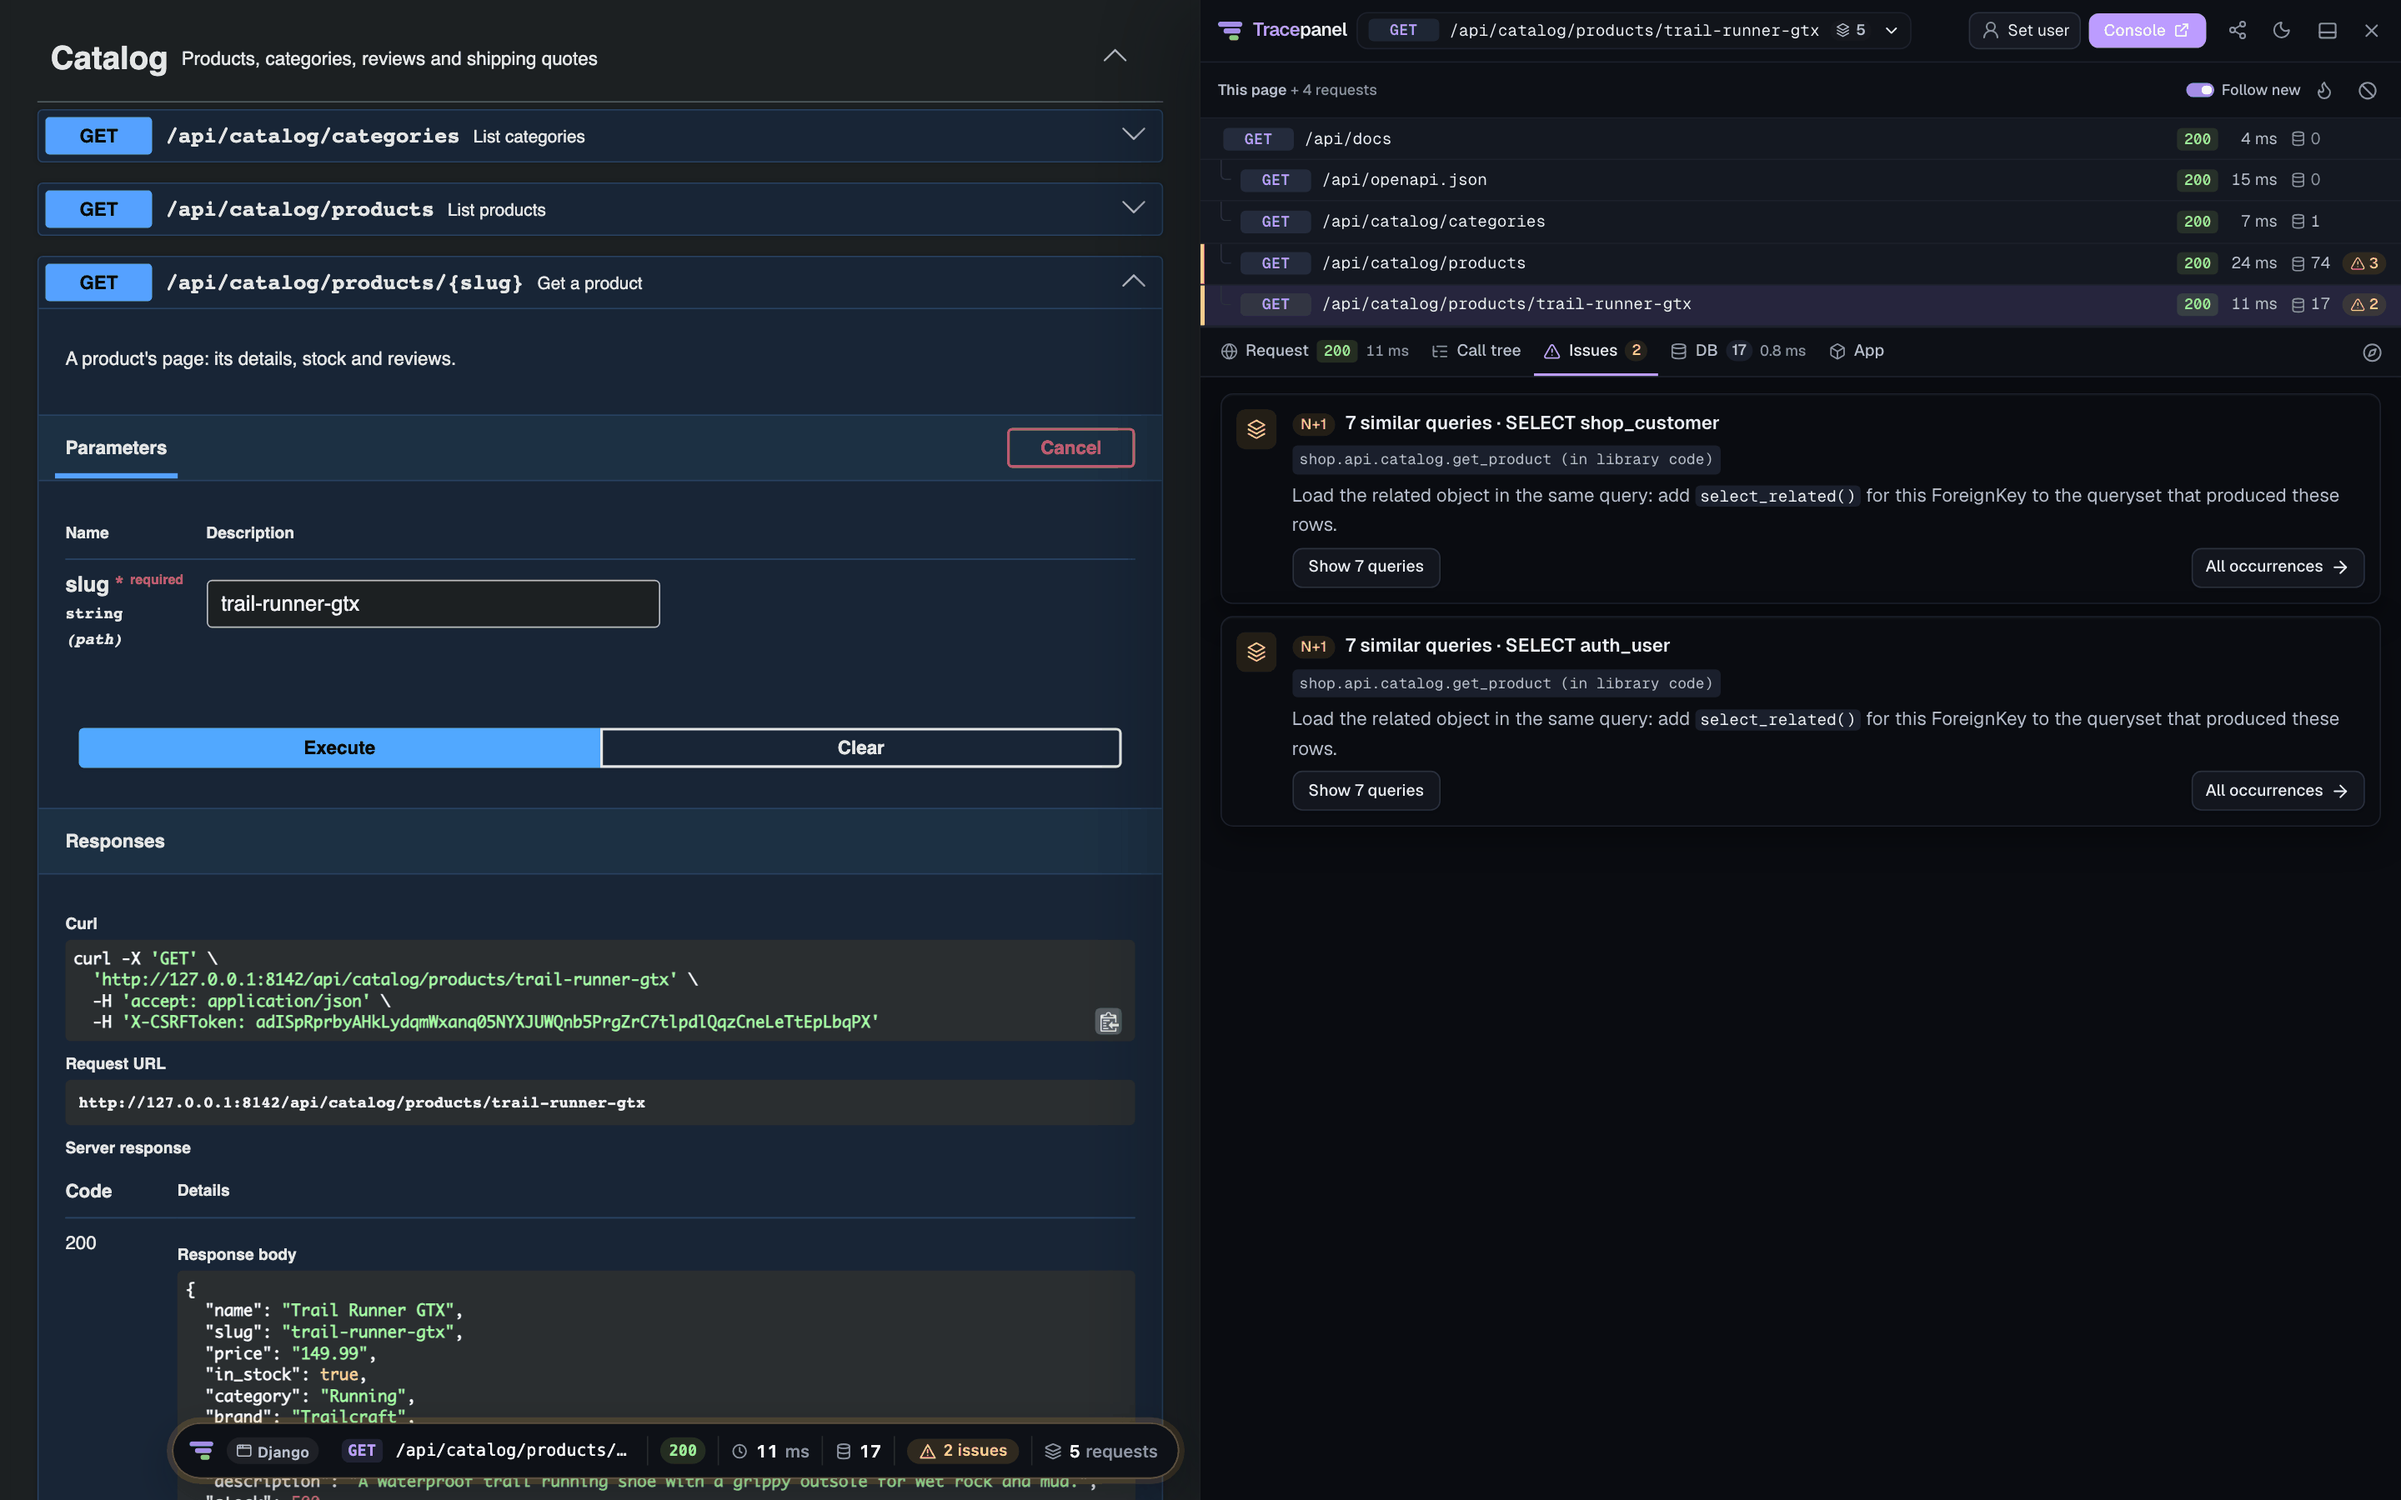
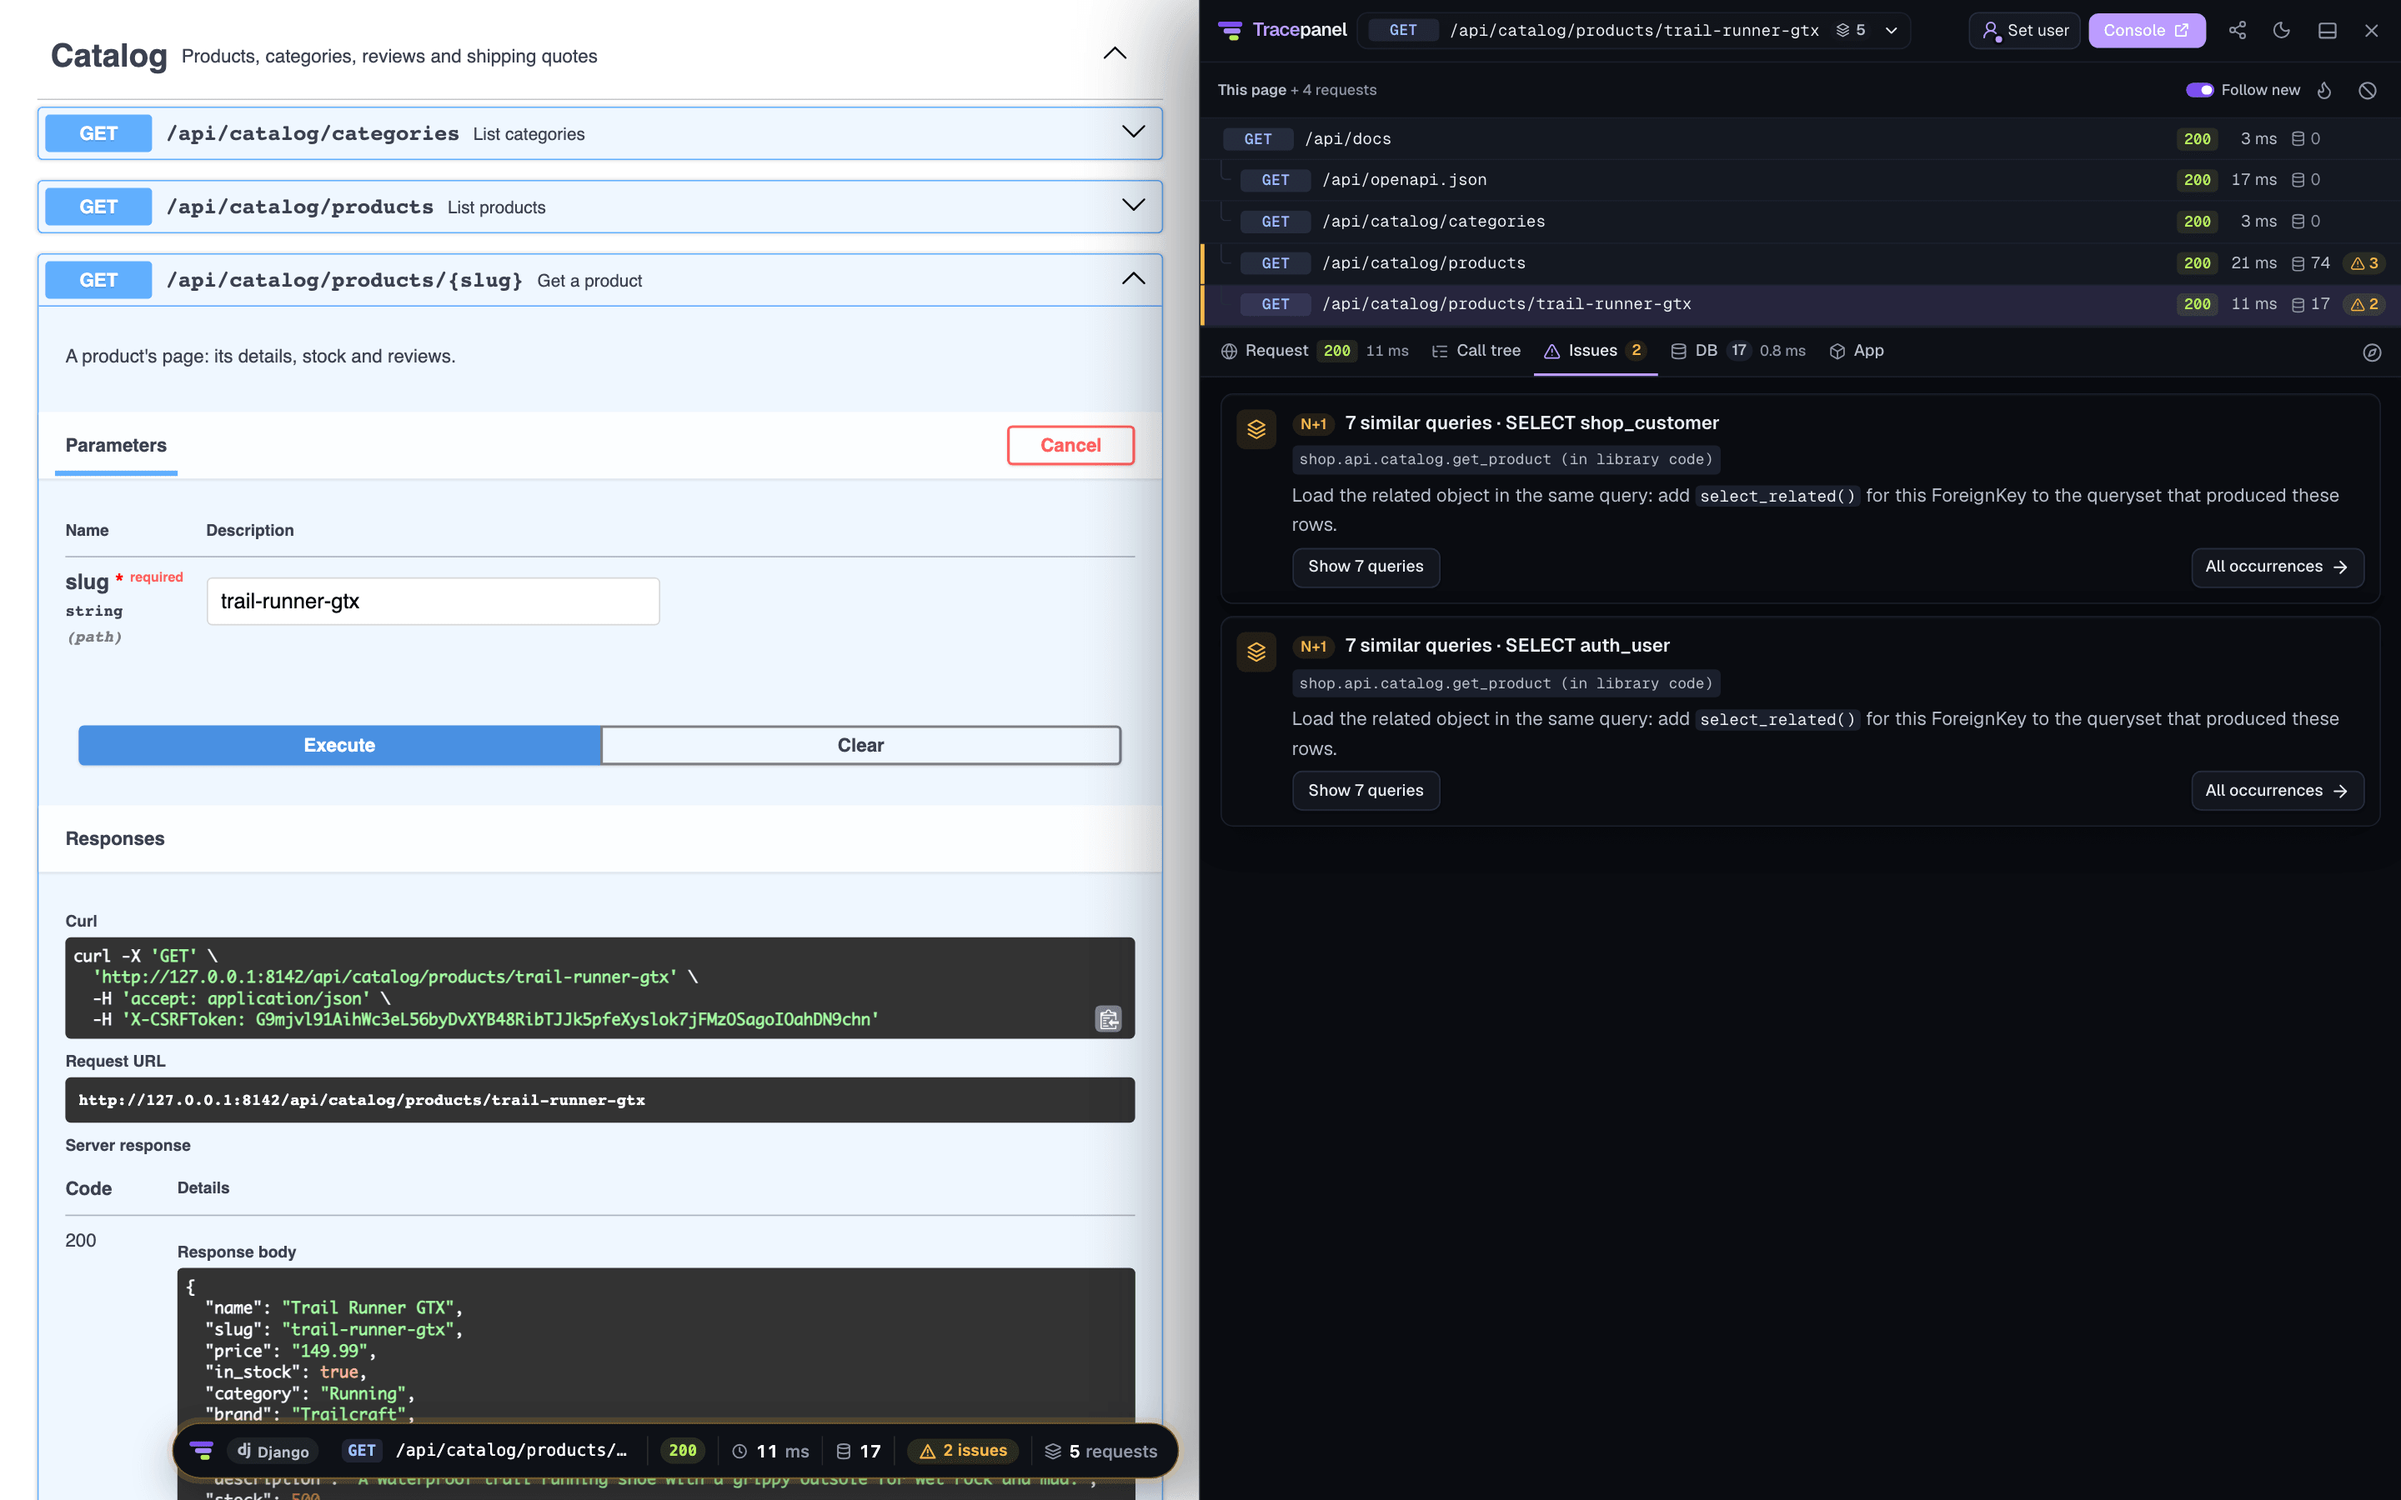
README: Swagger UI light beside the dark panel in its screenshots

diff --git a/CHANGELOG.md b/CHANGELOG.md
@@ -10,6 +10,8 @@ version. What changes in each version is in
 
 - The README opens with the 40-second demo video: Swagger UI's Try it out
   with the panel docked under it.
+- The README's panel screenshots show Swagger UI in its light theme beside the
+  dark panel.
 
 ## 0.5.3 (2026-10-26)
 
